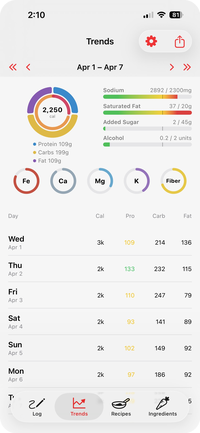
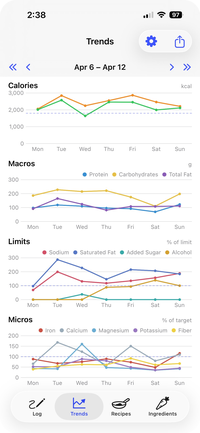
Sync README and screenshots from source repo

diff --git a/README.md b/README.md
@@ -2,13 +2,9 @@
 
 A nutrition tracker for people who cook and don't want or need another account or subscription.
 
-If you make most of your food from real ingredients and you've spent ten minutes inside a mainstream nutrition app wondering where the recipe button is, this is for you. The Daily Ration treats recipes as the main thing — not a premium upsell — and gets out of your way.
+If you make most of your food from real ingredients and you've spent ten minutes inside a mainstream nutrition app wondering where the recipe button is, this is for you.
 
-![Log tab with chart header and meals](screenshots/log_view.png)
-
----
-
-## What it does
+<img align="left" width="200" hspace="16" src="screenshots/log_view.png" alt="Log tab with chart header and meals">
 
 - **Over 350 ingredients on day one.** Eggs, olive oil, black beans, cheddar, oats — the stuff you actually cook with is already there with full USDA nutrition data. No data entry before your first meal.
 - **Scan a barcode.** Point your camera at a product barcode and the app looks it up instantly.
@@ -21,13 +17,16 @@ If you make most of your food from real ingredients and you've spent ten minutes
 - **Sync across your devices.** iCloud sync is opt-in — enable it in Settings if you want multi-device. No account, no signup, no password.
 - **Optional Apple Health integration.** Publish what you eat to Health, or pull in your active calories burned to compare against what you ate. Both are off by default and independently configurable.
 
+<br clear="both">
+
 ---
 
 ## How it's organized
+<br>
+
+<img align="left" width="200" hspace="16" src="screenshots/calorie_detail.png" alt="Calorie trend popup">
 
 ### Log
-
-<img align="right" width="200" src="screenshots/calorie_detail.png" alt="Calorie trend popup">
 
 Your day. The top of the screen is a chart header showing macros, calories vs. target, micronutrients, and limit nutrients (the things you want to stay under). Below that, a list of meals you've logged today.
 
@@ -37,17 +36,17 @@ Swipe left or right anywhere on the day view to walk through previous days.
 
 <br clear="both">
 
+<img align="left" width="200" hspace="16" src="screenshots/trends.png" alt="Trends — calories and limits"><img align="left" width="200" hspace="16" src="screenshots/trends_macros.png" alt="Trends — macros expanded">
+
 ### Trends
 
-<img align="right" width="200" src="screenshots/trends.png" alt="Trends tab">
-
-The longer view. Daily totals across weeks, average values, and a per-nutrient breakdown for whatever stretch you're looking at.
+Line graphs across a rolling 7-day window: calories, macros, limits, and micronutrients. Tap any chart to expand it. Export daily totals as CSV with a configurable date range.
 
 <br clear="both">
 
-### Recipes
+<img align="left" width="200" hspace="16" src="screenshots/recipe_view.png" alt="Recipe detail">
 
-<img align="right" width="200" src="screenshots/recipe_view.png" alt="Recipe detail">
+### Recipes
 
 Your cookbook. Each recipe is a list of ingredients with quantities. The nutrition is computed from the ingredients — you don't enter it by hand.
 
@@ -55,11 +54,13 @@ When you log a recipe as a meal, it captures a snapshot of the nutrition at that
 
 <br clear="both">
 
+<img align="left" width="200" hspace="16" src="screenshots/ingredient.png" alt="Ingredient detail"><img align="left" width="200" hspace="16" src="screenshots/barcode_scanner.png" alt="Barcode scanner">
+
 ### Ingredients
 
 Your pantry. Scan a barcode, photograph a nutrition label, search the USDA database, or add one by hand — every ingredient lives here with its full nutrition breakdown.
 
-<img src="screenshots/ingredient_list.png" width="200" alt="Ingredient list">&nbsp;&nbsp;<img src="screenshots/ingredient.png" width="200" alt="Ingredient detail">&nbsp;&nbsp;<img src="screenshots/barcode_scanner.png" width="200" alt="Barcode scanner">
+<br clear="both">
 
 ---
 
@@ -81,7 +82,7 @@ Tap anything to drill in.
 
 ## Customizing the display
 
-<img align="right" width="200" src="screenshots/settings.png" alt="Settings">
+<img align="right" width="200" hspace="16" src="screenshots/settings.png" alt="Settings">
 
 **Settings → Nutrients** lets you toggle each non-macro nutrient on and off independently. If you don't care about Saturated Fat, hide it — the bar disappears from the day view and the rest stays untouched.
 
@@ -93,7 +94,7 @@ Tap anything to drill in.
 
 ## Apple Health
 
-<img align="right" width="200" src="screenshots/apple_health.jpeg" alt="Apple Health settings">
+<img align="right" width="200" hspace="16" src="screenshots/apple_health.jpeg" alt="Apple Health settings">
 
 Off by default. Two independent toggles in Settings → Apple Health:
 
@@ -109,7 +110,7 @@ These are split because they're useful independently. You might want to publish 
 
 ## Works on Mac, too
 
-<img align="right" width="400" src="screenshots/macOS_ingredient.png" alt="macOS ingredient split view">
+<img align="right" width="400" hspace="16" src="screenshots/macOS_ingredient.png" alt="macOS ingredient split view">
 
 The Daily Ration runs natively on macOS 14+. Ingredients, recipes, and meal logs are the same data on both platforms — edit on your Mac, log on your phone, or the other way around. The macOS version uses a split-view layout with full keyboard support.
 
